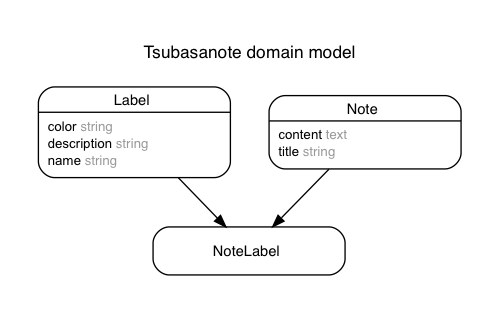
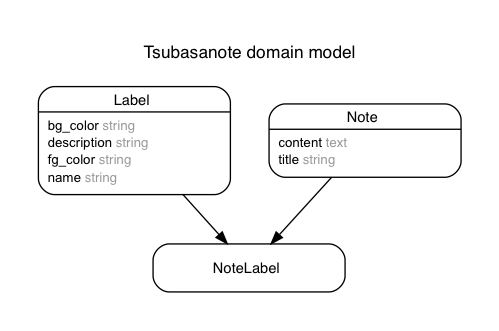
カラム変更

diff --git a/db/schema.rb b/db/schema.rb
@@ -10,14 +10,15 @@
 #
 # It's strongly recommended that you check this file into your version control system.
 
-ActiveRecord::Schema.define(version: 2019_02_19_054651) do
+ActiveRecord::Schema.define(version: 2019_02_19_092313) do
 
   create_table "labels", force: :cascade do |t|
     t.string "name"
     t.string "description"
-    t.string "color"
     t.datetime "created_at", null: false
     t.datetime "updated_at", null: false
+    t.string "fg_color"
+    t.string "bg_color"
   end
 
   create_table "note_labels", force: :cascade do |t|

diff --git a/db/migrate/20190219091812_remove_columns_from_labels.rb b/db/migrate/20190219091812_remove_columns_from_labels.rb
@@ -1,0 +1,8 @@
+class RemoveColumnsFromLabels < ActiveRecord::Migration[5.2]
+  def up
+    remove_column :labels, :color, :string
+  end
+  def down
+    add_column :labels, :color, :string
+  end
+end

diff --git a/db/migrate/20190219092313_add_columns_to_labels.rb b/db/migrate/20190219092313_add_columns_to_labels.rb
@@ -1,0 +1,6 @@
+class AddColumnsToLabels < ActiveRecord::Migration[5.2]
+  def change
+    add_column :labels, :fg_color, :string
+    add_column :labels, :bg_color, :string
+  end
+end
